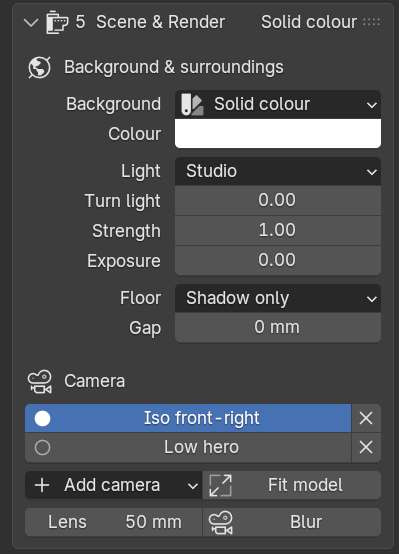
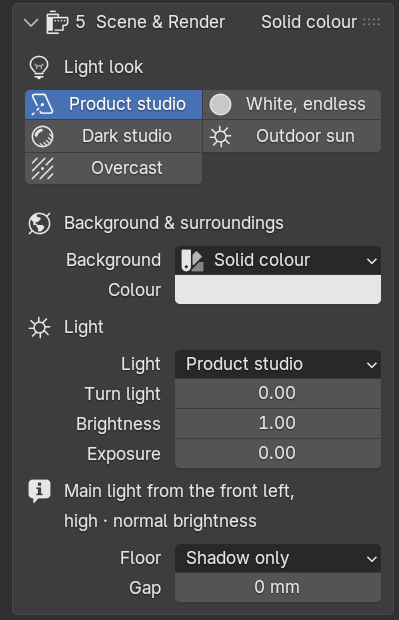
Task 0017: review fixes, guide pictures
Old saved scenes and templates (no weather stored) show a sunny sky; a camera copied with Shift+D
gets its own sharp spot instead of moving or deleting the other's; Make turntable video takes old
stopped or failed turntable jobs out of the queue (Start queue would render them again), removes
its job when the queue cannot start, and keeps a saved scene of the user's own called 'Turntable';
tooltips and guide say the sharp spot follows its part in pictures (an animation keeps the
distance) and that Make is clicked again after changing size, shape or frame rate. New pictures
of panel 5 and of the five light looks.

Claude-Session: https://claude.ai/code/session_01LGPBd6XUYM7ziA1rNXNd48

diff --git a/tests/test_studio_cameras.py b/tests/test_studio_cameras.py
@@ -617,3 +617,61 @@ def test_pictures_folder_is_asked_once():
     render.pictures_dir()
     render.pictures_dir()
     assert render.pictures_dir.cache_info().hits >= 1
+
+
+def test_scenes_and_templates_from_before_the_weather_are_sunny(scene):
+    """A saved scene or template made before task 0017 has no weather: it shows a sunny sky, whatever
+    the weather is now (review finding)."""
+    import json
+    from fresing_render.blender import ops_main
+    s = scene.fresing
+    s.background = "SKY"
+    shot = states.save_shot(scene, "Old sunny")
+    old = json.loads(shot.world)
+    del old["sky_weather"]
+    shot.world = json.dumps(old)
+    t = ops_main._template_from_scene(scene)
+    del t.background["sky_weather"]
+    bpy.ops.fresing.light_look(look="OVERCAST")
+    states.apply_shot(scene, "Old sunny")
+    assert s.sky_weather == "SUN"
+    bpy.ops.fresing.light_look(look="OVERCAST")
+    ops_main.apply_template(scene, t)
+    assert s.sky_weather == "SUN"
+
+
+def test_a_copied_camera_gets_its_own_sharp_spot(crane):
+    """Shift+D copies a camera with its sharp-spot marker: picking or clearing a spot on one must not
+    move or delete the other's (review finding)."""
+    cam = crane.camera
+    part = next(build.iter_parts(crane))
+    ob, loc = _click(crane, cam, part)
+    cameras.set_focus(cam, crane, ob, loc)
+    copy = cam.copy()
+    copy.data = cam.data.copy()
+    cameras.collection(crane).objects.link(copy)
+    shared = cameras.focus_marker(copy)
+    assert shared is cameras.focus_marker(cam)
+    crane.camera = copy
+    cameras.set_focus(copy, crane, ob, loc + Vector((0.0, 0.0, 0.05)))
+    assert cameras.focus_marker(copy) is not shared and cameras.focus_marker(cam) is shared
+    assert (shared.matrix_world.translation - loc).length < 1e-5
+    # back to sharing, then clearing one keeps the other's marker
+    copy.data.dof.focus_object = shared
+    cameras.clear_focus(copy, crane)
+    assert cameras.focus_marker(cam) is shared and shared.name in bpy.data.objects
+
+
+def test_turntable_keeps_a_scene_of_your_own_and_drops_old_jobs(crane):
+    from fresing_render.blender import queue
+    s = crane.fresing
+    states.save_shot(crane, "Turntable")              # the user's own scene with that name
+    mine = s.shots["Turntable"].world
+    a = turntable.make(crane)["animation"]
+    assert a.start_shot != "Turntable" and s.shots[a.start_shot].get(turntable.TAG)
+    assert s.shots["Turntable"].world == mine
+    assert turntable.make(crane)["shot"].name == a.start_shot           # made again: the same scene
+    for status in ("STOPPED", "FAILED", "DONE"):
+        queue.add_job(crane, "ANIMATION", animation=a.name).status = status
+    turntable.drop_unfinished_jobs(crane, a)
+    assert [j.status for j in s.queue] == ["DONE"]

diff --git a/fresing_render/blender/ops_scene.py b/fresing_render/blender/ops_scene.py
@@ -50,7 +50,7 @@ class FRESING_OT_light_look(bpy.types.Operator):
 
 class FRESING_OT_focus_pick(bpy.types.Operator):
     """Click the spot on the machine that should be sharp; what is far in front of or behind it gets
-    blurred. The spot moves with its part. Esc cancels"""
+    blurred. In pictures the spot moves with its part. Esc cancels"""
 
     bl_idname = "fresing.focus_pick"
     bl_label = "Pick the sharp spot"
@@ -141,7 +141,8 @@ class FRESING_OT_env_simple(bpy.types.Operator):
 
 class FRESING_OT_turntable(bpy.types.Operator):
     """Makes a video of the camera going once round the machine and renders it in the background
-    (7 Render queue). The machine looks as it does now. Change size and shape in 6 Animation, 'Turntable'"""
+    (7 Render queue). The machine looks as it does now. Click it again after changing the machine, or
+    the size, shape or frame rate in 6 Animation, 'Turntable'"""
 
     bl_idname = "fresing.turntable"
     bl_label = "Make turntable video"
@@ -161,7 +162,8 @@ class FRESING_OT_turntable(bpy.types.Operator):
             return {"CANCELLED"}
         info = turntable.make(scene)
         a = info["animation"]
-        queue.add_job(scene, "ANIMATION", animation=a.name)
+        turntable.drop_unfinished_jobs(scene, a)     # else Start queue would render an old one again
+        job_id = queue.add_job(scene, "ANIMATION", animation=a.name).job_id
         msg = (f"Turntable video in 7 Render queue: {info['seconds']:.0f} s, {info['frames']} frames, "
                f"{info['size'].width} × {info['size'].height}")
         note = turntable.slow_note(s)
@@ -171,6 +173,9 @@ class FRESING_OT_turntable(bpy.types.Operator):
             try:
                 queue.start(context)
             except (RuntimeError, OSError) as exc:
+                for i in reversed(range(len(s.queue))):     # nothing started: no job left waiting
+                    if s.queue[i].job_id == job_id:
+                        s.queue.remove(i)
                 self.report({"ERROR"}, str(exc))
                 return {"CANCELLED"}
         s.last_message = msg

diff --git a/fresing_render/blender/cameras.py b/fresing_render/blender/cameras.py
@@ -356,10 +356,18 @@ def _after_move(ob, scene) -> None:
         update_blur(ob, scene)
 
 
+def _other_users(marker, ob) -> list:
+    """Other cameras that use this marker (a camera copied with Shift+D shares it)."""
+    return [o for o in bpy.data.objects if o is not ob and o.type == "CAMERA" and o.data is not None
+            and o.data.dof.focus_object == marker]
+
+
 def set_focus(ob, scene, part, point) -> bpy.types.Object:
-    """Make ``point`` (a world position on ``part``) the sharp spot of camera ``ob``. The spot moves
-    with the part (joints, poses, animations)."""
+    """Make ``point`` (a world position on ``part``) the sharp spot of camera ``ob``. In pictures the
+    spot moves with the part (joints, poses); an animation keeps the distance its start camera has."""
     marker = focus_marker(ob)
+    if marker is not None and _other_users(marker, ob):
+        marker = None                        # shared with a copied camera: this camera gets its own
     if marker is None:
         marker = bpy.data.objects.new(f"{ob.name} – sharp spot", None)
         marker[PROP_FOCUS] = True
@@ -390,16 +398,17 @@ def clear_focus(ob, scene) -> None:
     if marker is None:
         return
     ob.data.dof.focus_object = None
-    bpy.data.objects.remove(marker)
+    if not _other_users(marker, ob):
+        bpy.data.objects.remove(marker)
     update_blur(ob, scene)
 
 
 def remove_camera(ob) -> None:
     """Delete a camera and the marker of its sharp spot."""
     marker = focus_marker(ob)
+    others = _other_users(marker, ob) if marker is not None else []
     bpy.data.objects.remove(ob)
-    if marker is not None and not any(o.type == "CAMERA" and o.data.dof.focus_object == marker
-                                      for o in bpy.data.objects):
+    if marker is not None and not others:
         bpy.data.objects.remove(marker)
 
 

diff --git a/tools/guide_screens.py b/tools/guide_screens.py
@@ -11,7 +11,7 @@ Three runs; each writes its pictures to $GUIDE_OUT (default docs/img):
   render   a finished render of the crane (Cycles on the processor):
       BLENDER_USER_RESOURCES=<user> GUIDE_SHOTS=render blender -b --app-template fresing_render \\
           --python tools/guide_screens.py
-  looks    the crane in each of the five light looks, side by side (looks.png; Cycles on the processor):
+  looks    the crane in each of the five light looks, side by side (looks.jpg; Cycles on the processor):
       BLENDER_USER_RESOURCES=<user> GUIDE_SHOTS=looks blender -b --app-template fresing_render \\
           --python tools/guide_screens.py
 
@@ -655,10 +655,11 @@ def render_looks():
         mod("blender.render").render_still(sc, s, "preview", filepath=path)
         log("look", look, f"{time.time() - t:.0f} s")
         tiles += ["-label", label, path]
-    out = os.path.join(OUT, "looks.png")
+    sheet = os.path.join(SCRATCH, "looks.png")
     subprocess.run(["montage", *tiles, "-tile", "3x2", "-geometry", "+6+6", "-pointsize", "18",
-                    "-background", "white", out], check=True)
-    subprocess.run(["convert", out, "-strip", "-quality", "92", out], check=True)
+                    "-background", "white", sheet], check=True)
+    out = os.path.join(OUT, "looks.jpg")
+    subprocess.run(["convert", sheet, "-strip", "-quality", "86", out], check=True)
     log("saved looks", f"{os.path.getsize(out) // 1024} KB")
 
 

diff --git a/fresing_render/blender/turntable.py b/fresing_render/blender/turntable.py
@@ -65,7 +65,10 @@ def make(scene) -> dict:
         render.apply_output(scene, s)
 
     keep_index = s.shots_index
-    shot = states.save_shot(scene, NAME, camera=cam)
+    shot = next((x for x in s.shots if x.get(TAG)), None)      # a scene of the user called "Turntable" stays
+    shot = states.save_shot(scene, shot.name if shot is not None else states.unique_shot_name(scene, NAME),
+                            camera=cam)
+    shot[TAG] = True
     s.shots_index = keep_index if keep_index < len(s.shots) else s.shots_index
     if scene.camera is None:
         scene.camera = cam
@@ -105,3 +108,12 @@ def is_turntable_running(scene) -> bool:
     a = find_animation(scene)
     return a is not None and any(j.animation == a.name and j.status in ("WAITING", "RUNNING")
                                  for j in scene.fresing.queue)
+
+
+def drop_unfinished_jobs(scene, anim) -> None:
+    """Take earlier stopped or failed jobs of the turntable out of the queue (Start queue would render
+    them again next to the new one)."""
+    q = scene.fresing.queue
+    for i in reversed(range(len(q))):
+        if q[i].animation == anim.name and q[i].status in ("STOPPED", "FAILED"):
+            q.remove(i)

diff --git a/fresing_render/blender/ui.py b/fresing_render/blender/ui.py
@@ -1084,7 +1084,8 @@ class FRESING_PT_turntable(_Panel, bpy.types.Panel):
                          "DONE": "done", "FAILED": "failed", "STOPPED": "stopped"}.get(job.status, job.status)
                 wrap(layout, context, f"Last turntable: {state} (7 Render queue).",
                      icon="CHECKMARK" if job.status == "DONE" else "TIME", alert=job.status == "FAILED")
-            wrap(layout, context, f"Size, shape and file: 6 Animation, '{a.name}'.")
+            wrap(layout, context, f"Size, shape and file: 6 Animation, '{a.name}'; then Make turntable "
+                                  "video again.")
 
 
 CLASSES = (

diff --git a/fresing_render/blender/ops_main.py b/fresing_render/blender/ops_main.py
@@ -528,6 +528,8 @@ def apply_template(scene, t: Template) -> None:
             lk.group, lk.material, lk.color = gname, look.material, look.color
     live = s.live_update
     s.live_update = False
+    if t.background and "sky_weather" not in t.background:
+        s.sky_weather = "SUN"                # a template made before the weather existed: a sunny sky
     for k, v in t.background.items():
         try:
             setattr(s, k, v)

diff --git a/fresing_render/blender/states.py b/fresing_render/blender/states.py
@@ -252,6 +252,8 @@ def apply_settings_json(scene, text: str) -> None:
         data = json.loads(text or "{}")
     except ValueError:
         return
+    if "background" in data and "sky_weather" not in data:
+        data["sky_weather"] = "SUN"          # saved before the weather existed (task 0017): a sunny sky
     live = s.live_update
     s.live_update = False                    # one world rebuild, not one per setting
     try:

diff --git a/docs/USER-GUIDE.md b/docs/USER-GUIDE.md
@@ -498,7 +498,7 @@ stays pressed.
 | **Outdoor sun** | Blue sky, the sun from the front left, sharp shadows. On the sea, the deck or the quay only the weather changes. |
 | **Overcast** | Grey, cloudy sky without sun: soft light, soft shadows, calm and true colours. On the sea, the deck or the quay only the weather changes. |
 
-<img src="img/looks.png" alt="The five light looks on the test crane">
+<img src="img/looks.jpg" alt="The five light looks on the test crane">
 
 ### Background & surroundings
 
@@ -593,8 +593,9 @@ For the active camera:
   **Strong** (like a product photo; parts far from the sharp spot go soft too). It looks the same on
   a small gearbox and on a 25 m crane. Each camera keeps its own. Not for Isometric (no perspective).
 - **Sharp at**: the middle of the machine, until you click the eyedropper and then the spot that
-  should be sharp (for example the gripper). A small ball marks it in the view; it moves with its
-  part when joints move. × makes the middle sharp again.
+  should be sharp (for example the gripper). A small ball marks it in the view; in pictures it moves
+  with its part when joints move (a video keeps the sharp distance its start camera has). × makes the
+  middle sharp again.
 
 ### Turntable video
 
@@ -611,10 +612,12 @@ A video of the camera going once round the machine, as it looks now – in one c
 
 It starts on the side the active camera looks from and keeps the whole machine in the picture all the
 way round, with the active camera's lens and background blur (in a turntable, the middle of the
-machine stays sharp). The button makes three things you can also change yourself: the camera
-**Turntable camera**, the saved scene **Turntable** and the animation **Turntable** in 6 Animation
-(change the video's size, shape or file there, then **Render animation**). Click **Make turntable
-video** again after changing the machine or the background.
+machine stays sharp). The button makes three things you can also look at yourself: the camera
+**Turntable camera**, the saved scene **Turntable** and the animation **Turntable** in 6 Animation.
+To change the video's size, shape, frame rate or file: change them there, then click **Make
+turntable video** again (it fits the camera and the turn to them). Also click it again after
+changing the machine or the background; it makes the turn anew, so steps you added to the
+animation "Turntable" are replaced.
 
 In a hall the panel says that halls take 1.4 to 2.8 times as long to render as the studio (measured
 on a test PC without a graphics card) and offers **Use Simple (faster)**.
@@ -774,6 +777,6 @@ for help.
 - Slow: is **Graphics card** on (Image size & render > Files & graphics card)? The self-test line
   "Graphics card" should name your graphics card. Lower the Quality or Size, or Clean-up parts nobody
   sees.
-- "Add a camera first": add one in 5 Scene & Render.
-- Too dark or too light: **Exposure** and **Strength** in 5 Scene & Render.
+- "Add a camera first": click a view under **Camera** in 5 Scene & Render.
+- Too dark or too light: **Exposure** and **Brightness** in 5 Scene & Render, or another **Light look**.
 - A job in the queue failed: click it to read its message, and **Open log**.
